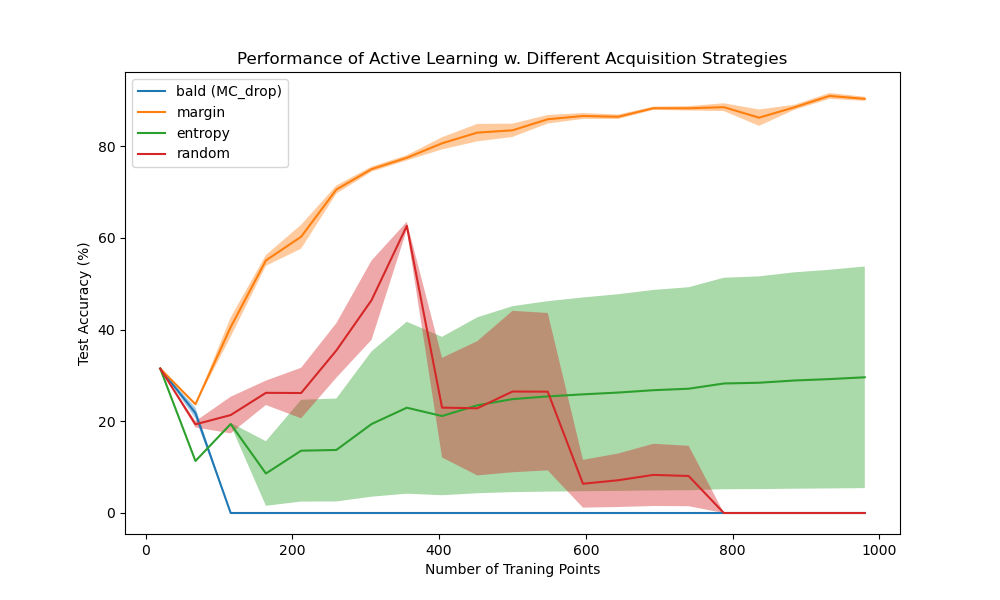
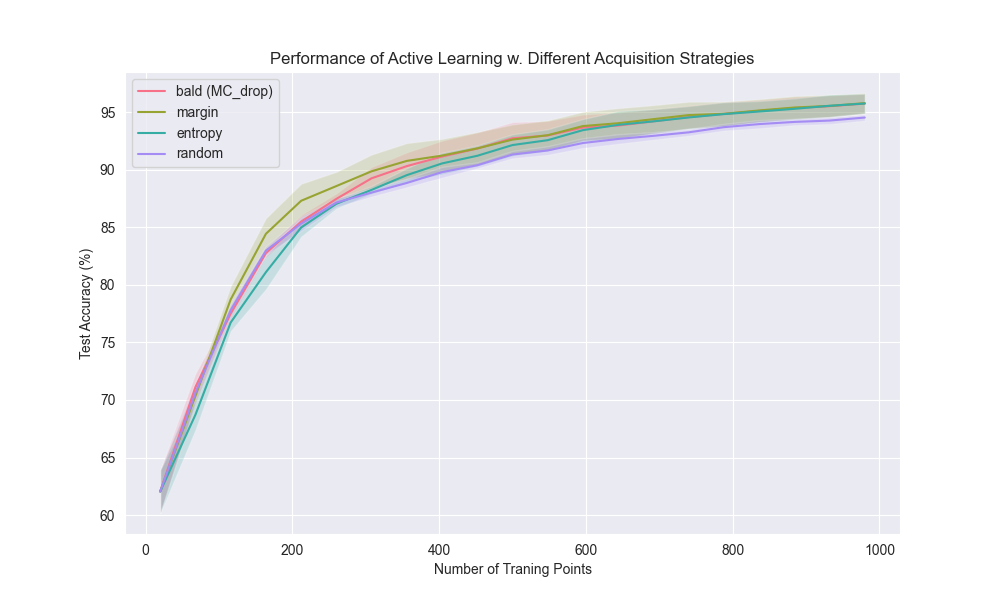
iter now works, update makefile

diff --git a/src/visualization/al_compare.py b/src/visualization/al_compare.py
@@ -1,18 +1,16 @@
 import argparse
-from multiprocessing import pool
 import sys
 from tqdm import tqdm
+import seaborn as sns
 
-import random
 import numpy as np
 import matplotlib.pyplot as plt
 from sklearn.datasets import make_moons
 from sklearn.model_selection import train_test_split
 
 import torch
-import torch.nn as nn
 import torch.optim as optim
-import torch.nn.functional as F
+
 from torch.utils.data import DataLoader, Subset
 import torchvision.transforms as transforms
 
@@ -20,7 +18,7 @@ from src.models.model import MLP, PaperCNN
 from src.data.data import TwoMoons, MNIST_CUSTOM
 from src.models.train_model import train, test
 from src.features.acquistion_funcs import query_the_oracle
-from torchvision import datasets
+
 
 class CompareAcquisitionFunctions(object):
     def __init__(self):
@@ -46,17 +44,17 @@ class CompareAcquisitionFunctions(object):
         parser.add_argument('--n_iter', default=3, type=int)
         parser.add_argument('--num_queries', default=20, type=int)
         parser.add_argument('--query_size', default=49, type=int)
-        parser.add_argument('--bald_method', default='MC_drop', type=str)
-        parser.add_argument('--T', default=10, type=int)
+        parser.add_argument('--bald_method', default='ensemble', type=str)
+        parser.add_argument('--T', default=3, type=int)
         parser.add_argument('--dropout', default=0.3, type=float)
         parser.add_argument('--init_pool_size', default=20, type=int)
         parser.add_argument('--save_name', default='al_compare', type=str)
         parser.add_argument('--device', default='mps', type=str)
-        parser.add_argument('--subset', default=True, type=bool)
+        parser.add_argument('--subset', default=False, type=bool)
         
         args = parser.parse_args(sys.argv[2:])
         
-        print(f"Using device: {args.device}")
+        print(f"[INFO] Using device: {args.device}")
         
         FIGURE_PATH = '/Users/madsbirch/Documents/4_semester/BAL/bayesian-active-learning/reports/figures/al_compare/'
         MODEL_PATH = '/Users/madsbirch/Documents/4_semester/BAL/bayesian-active-learning/models/'
@@ -114,9 +112,11 @@ class CompareAcquisitionFunctions(object):
             traindata.reset_submask()
             
             if args.subset:
-                num_samples = 10000
+                num_samples = 5000
                 train_idxs = torch.randperm(num_samples)
                 traindata.update_submask(train_idxs)
+            else:
+                traindata.no_subset()
             
             # generate validation set of 100 samples
             num_samples = 100
@@ -136,7 +136,7 @@ class CompareAcquisitionFunctions(object):
             initial_idx = []
             for r in range(10):
                 initial_idx.extend(np.random.choice(np.where(traindata.targets ==r)[0], size=2, replace=False))
-            
+
             # reset dataset model and optimizer
             traindata.reset_mask()
             traindata.update_mask(initial_idx)
@@ -149,7 +149,7 @@ class CompareAcquisitionFunctions(object):
                 model = MLP(dropout=args.dropout).to(args.device)
             
             # train model on initial pool and save to disc (load in later)
-            print(f'Training common model on initial pool...')
+            print(f'[INFO] Training common model on initial pool...')
             
             # train on initial labeled pool and save model
             labeled_subset = Subset(traindata, initial_idx)
@@ -164,12 +164,15 @@ class CompareAcquisitionFunctions(object):
             'state_dict': model.state_dict(),
             'optimizer': optimizer.state_dict()
             }
-            torch.save(state, MODEL_PATH+args.dataset+'model_'+str(i)+'.pth')
+            torch.save(state, MODEL_PATH+args.dataset+'_model_'+str(i)+'.pth')
                 
             for s in args.strat_list:
                 print(f'STRATEGY: {s}')
                 
-                state = torch.load(MODEL_PATH+args.dataset+'model_'+str(i)+'.pth')
+                traindata.reset_mask()
+                traindata.update_mask(initial_idx)
+                
+                state = torch.load(MODEL_PATH+args.dataset+'_model_'+str(i)+'.pth')
                 model.load_state_dict(state['state_dict'])
                
                 for query in tqdm(range(args.num_queries)):
@@ -196,13 +199,12 @@ class CompareAcquisitionFunctions(object):
                     labeled_loader = DataLoader(labeled_subset, batch_size=batch_size, num_workers=0,shuffle = False)
                     model, optimizer = train(model, labeled_loader, optimizer, args.device, valloader, num_epochs=num_epochs, val = False, plot = False, printout = False)
                     acc = test(model, testloader, args.device, display = False)
+                    
                     # test model
-                    print(acc)
                     TEST_ACC[i,query+1] = test(model, testloader, args.device, display = False)
-                    print(TEST_ACC[i,:])
-            query_dict[s]['acc_se'] = TEST_ACC.std(0)/np.sqrt(args.n_iter)
-            query_dict[s]['acc_mean']  = TEST_ACC.mean(0)
-            print(query_dict)
+                    
+                query_dict[s]['acc_se'] = TEST_ACC.std(0)/np.sqrt(args.n_iter)
+                query_dict[s]['acc_mean']  = TEST_ACC.mean(0)
 
         x = np.linspace(start = args.init_pool_size,
                     stop = args.num_queries*args.query_size, 
@@ -210,20 +212,22 @@ class CompareAcquisitionFunctions(object):
                     dtype=int)
         
         plt.figure(figsize=(10,6))
-        for s in args.strat_list:
-            mean = query_dict[s]['acc_mean']
-            std = query_dict[s]['acc_se']
-            if s == 'bald':
-                plt.plot(x, mean, label = s+f' ({args.bald_method})')
-            else:
-                plt.plot(x, mean, label = s)
-            plt.legend()
-            plt.title('Performance of Active Learning w. Different Acquisition Strategies')
-            plt.xlabel('Number of Traning Points')
-            plt.ylabel('Test Accuracy (%)')
-            plt.fill_between(x, mean+std, mean-std, alpha = 0.4)
-        plt.savefig(FIGURE_PATH+args.dataset+args.save_name+'.png')
-        plt.show()
+        clrs = sns.color_palette("husl", len(args.strat_list))
+        with sns.axes_style("darkgrid"):
+            for i, s in enumerate(args.strat_list):
+                mean = query_dict[s]['acc_mean']
+                std = query_dict[s]['acc_se']
+                if s == 'bald':
+                    plt.plot(x, mean, label = s+f' ({args.bald_method})',  c=clrs[i])
+                else:
+                    plt.plot(x, mean, label = s,  c=clrs[i])
+                plt.legend()
+                plt.title('Performance of Active Learning w. Different Acquisition Strategies')
+                plt.xlabel('Number of Traning Points')
+                plt.ylabel('Test Accuracy (%)')
+                plt.fill_between(x, mean+std, mean-std, alpha=0.2, facecolor=clrs[i])
+            plt.savefig(FIGURE_PATH+args.dataset+args.save_name+'.png')
+            plt.show()
         
         
     def plot_grid(self):

diff --git a/src/features/acquistion_funcs.py b/src/features/acquistion_funcs.py
@@ -98,7 +98,7 @@ def BALD_query(model, device, data_loader,
     if method == 'ensemble':
         for t in range(T):
             outputs_inner = []
-            optimizer = optim.Adam(model.parameters(), lr = 1e-4)
+            optimizer = optim.Adam(model.parameters(), lr = 1e-3)
             model, optimizer = train(model, data_loader, optimizer, device, num_epochs = 50, plot = False, printout = False)
             model.eval()
             with torch.no_grad():
@@ -138,3 +138,15 @@ def query_the_oracle(model,
         sample_idx = BALD_query(model, device, poolloader, query_size = query_size, T = T, method = bald_method)
     
     return sample_idx
+
+
+class BALD():
+    def __init__(self):
+        pass
+        
+    def get_samples(self):
+        pass
+    
+    def get_grid(self):
+        pass
+        

diff --git a/src/data/data.py b/src/data/data.py
@@ -62,6 +62,9 @@ class MNIST_CUSTOM(datasets.MNIST):
         
     def reset_submask(self): 
         self.subset_mask = np.ones((len(self.subset_mask)))
+    
+    def no_subset(self):
+        self.subset_mask = np.zeros((len(self.subset_mask)))
         
         
         
